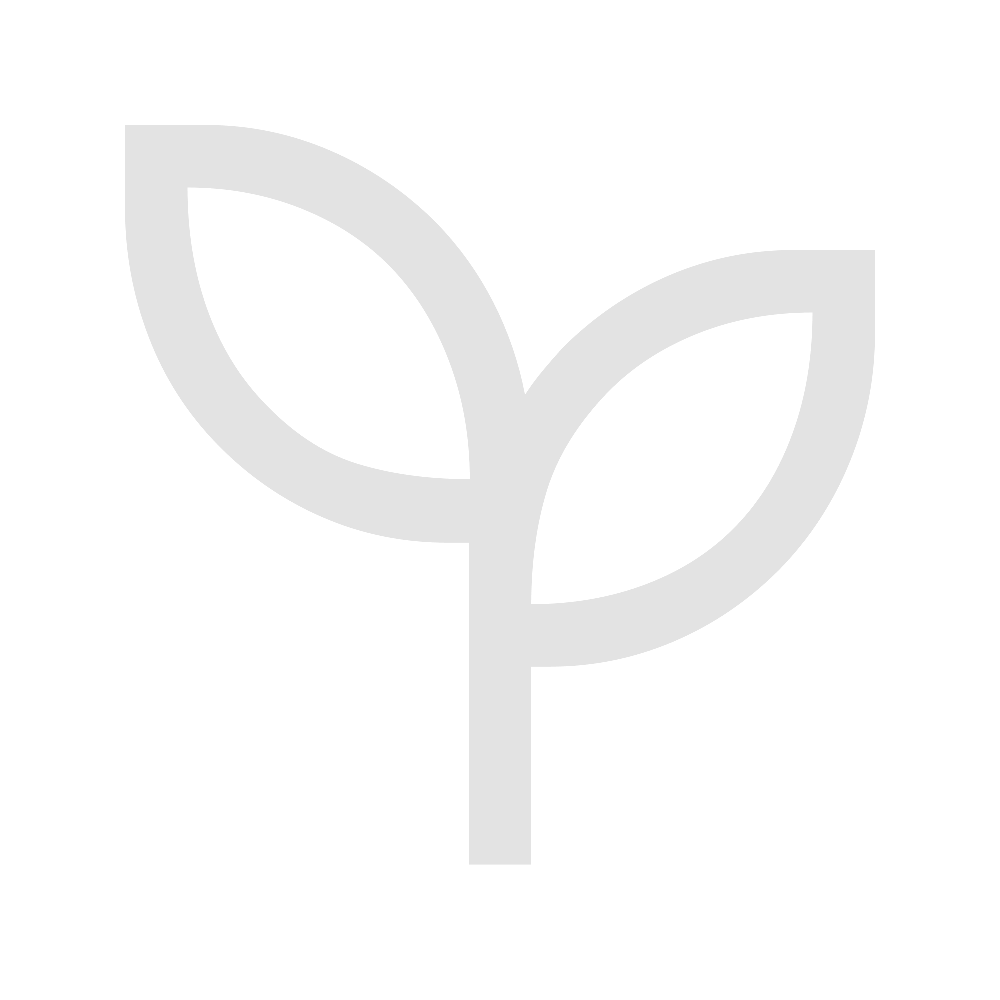
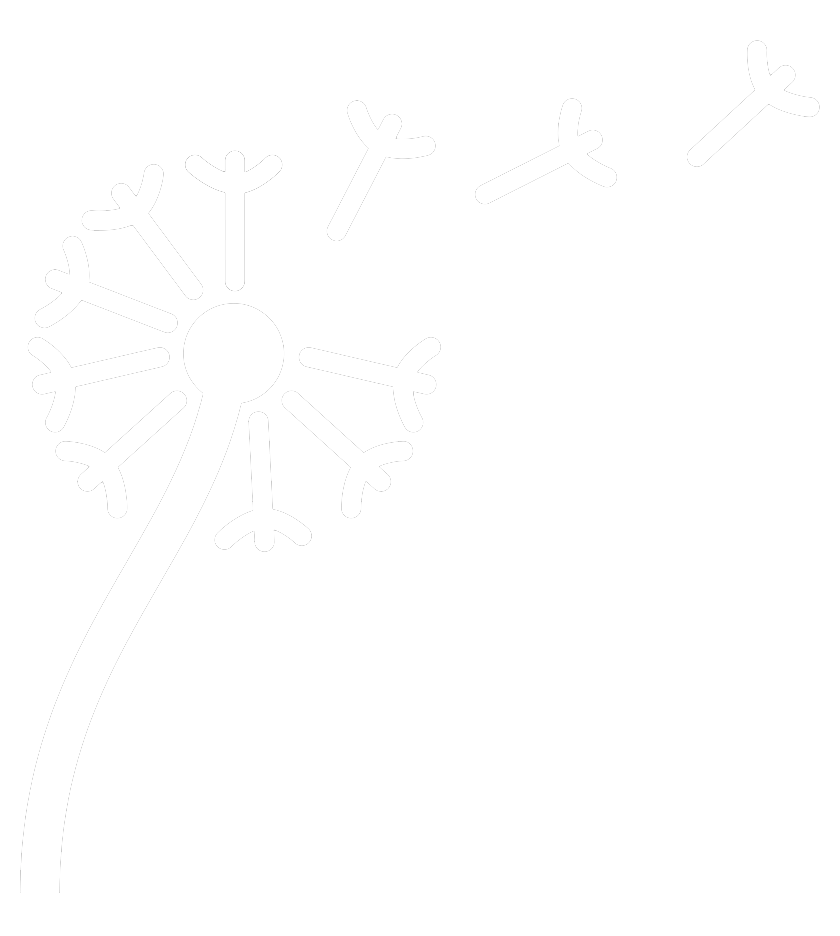
dodalem lepsze ikony, naprawilem problem z familyHistory przy importowanych swiatach

Changed region(s): [[0.1238, 0.1239, 0.8976, 0.8675]]

diff --git a/ImGUIManager.cpp b/ImGUIManager.cpp
@@ -403,7 +403,7 @@ int ImGUIManager::RunUI()
                 ImVec2 origin = ImGui::GetCursorScreenPos();
                 ImGui::Dummy(ImVec2(0, 0));
 
-                constexpr float cellSize = 70.0f;
+                constexpr float cellSize = 60.0f;
                 int width = world.getWorldX();
                 int height = world.getWorldY();
 
@@ -483,7 +483,7 @@ int ImGUIManager::RunUI()
                         float y = origin.y + pos.getY() * cellSize;
 
                         //tutaj jest duzo magicznych liczb bo ImageButton dodaje jakies niejasne marginesy
-                        ImGui::SetCursorScreenPos(ImVec2(x + 0.5, y + 0.5));
+                        ImGui::SetCursorScreenPos(ImVec2(x + 0.9, y + 0.9));
 
                         std::string id = '(' + std::to_string(pos.getX()) + ", " + std::to_string(pos.getY()) + ')';
 
@@ -492,7 +492,7 @@ int ImGUIManager::RunUI()
                         {
                             auto& org = world.getOrganisms()[i];
                             std::string popupid = id + " organism";
-                            if (ImGui::ImageButton(id.c_str(), (ImTextureRef)org->getTexture(), ImVec2(cellSize - 8.3, cellSize - 6.25)))
+                            if (ImGui::ImageButton(id.c_str(), (ImTextureRef)org->getTexture(), ImVec2(cellSize - 8.7, cellSize - 6.65)))
                             {
                                 ImGui::OpenPopup(popupid.c_str());
                             }
@@ -534,7 +534,7 @@ int ImGUIManager::RunUI()
                         {
                             //free positon
                             std::string popupid = id + ' ';
-                            if (ImGui::ImageButton(id.c_str(), (ImTextureRef)textures::Free, ImVec2(cellSize - 8.3, cellSize - 6.25)))
+                            if (ImGui::ImageButton(id.c_str(), (ImTextureRef)textures::Empty, ImVec2(cellSize - 8.7, cellSize - 6.65)))
                             {
                                 ImGui::OpenPopup(popupid.c_str());
                             }
@@ -645,7 +645,8 @@ void ImGUIManager::textures::loadTextures()
         D3DXCreateTextureFromFileW(ImGUIManager::g_pd3dDevice, L"imgui\\extra_icons\\wolf.png", &Wolf) ||
         D3DXCreateTextureFromFileW(ImGUIManager::g_pd3dDevice, L"imgui\\extra_icons\\sheep_fix.png", &Sheep) ||
         D3DXCreateTextureFromFileW(ImGUIManager::g_pd3dDevice, L"imgui\\extra_icons\\toadstool.png", &Toadstool) ||
-        D3DXCreateTextureFromFileW(ImGUIManager::g_pd3dDevice, L"imgui\\extra_icons\\square.png", &Free))
+        D3DXCreateTextureFromFileW(ImGUIManager::g_pd3dDevice, L"imgui\\extra_icons\\square.png", &Free) ||
+        D3DXCreateTextureFromFileW(ImGUIManager::g_pd3dDevice, L"imgui\\extra_icons\\empty.png", &Empty))
     {
         throw std::runtime_error("failed to load all textures");
     }

diff --git a/Organism.h b/Organism.h
@@ -9,6 +9,7 @@ private:
 
 protected:
 	std::shared_ptr<std::pair<int, int>> selfRecord;
+
 	std::vector<std::shared_ptr<std::pair<int, int>>> familyHistory{}; // historia to lista par; tur urodzin(1) i śmierci(2) przodków
 	std::shared_ptr<std::vector<Organism*>> family;
 
@@ -69,6 +70,7 @@ public:
 	void setIsAnimal(bool isAnimal);
 
 	void initHistory(Organism* parent = nullptr, int turnNum = 0);
+	void clearHistory();
 	std::vector<std::shared_ptr<std::pair<int, int>>> getHistory();
 	void setHistory(std::vector<std::shared_ptr<std::pair<int, int>>> newHistory);
 	void logDeathTurn(int turnNum);

diff --git a/ImGUIManager.h b/ImGUIManager.h
@@ -47,6 +47,7 @@ public:
         inline static IDirect3DTexture9* Sheep{ nullptr };
         inline static IDirect3DTexture9* Toadstool{ nullptr };
         inline static IDirect3DTexture9* Free{ nullptr };
+        inline static IDirect3DTexture9* Empty{ nullptr };
 
         static void loadTextures();
     };

diff --git a/Organism.cpp b/Organism.cpp
@@ -105,6 +105,11 @@ void Organism::initHistory(Organism* parent, int turnNum)
 	familyHistory.push_back(selfRecord);
 }
 
+void Organism::clearHistory()
+{
+	this->familyHistory.clear();
+}
+
 std::vector<std::shared_ptr<std::pair<int, int>>> Organism::getHistory()
 {
 	return this->familyHistory;

diff --git a/World.cpp b/World.cpp
@@ -257,6 +257,7 @@ void World::readWorld(std::string fileName)
 		// familyHistory
 		size_t size{};
 		my_file.read((char*)&size, sizeof(size));
+		newOrganism->clearHistory();
 		while (size--)
 		{
 			auto record = Organism().getSelfRecord();
